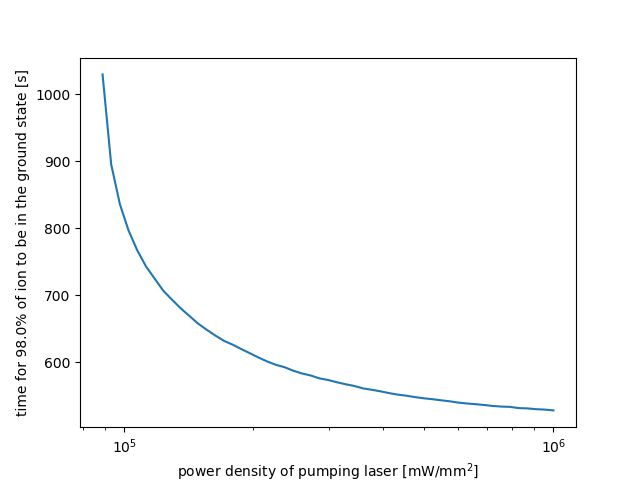
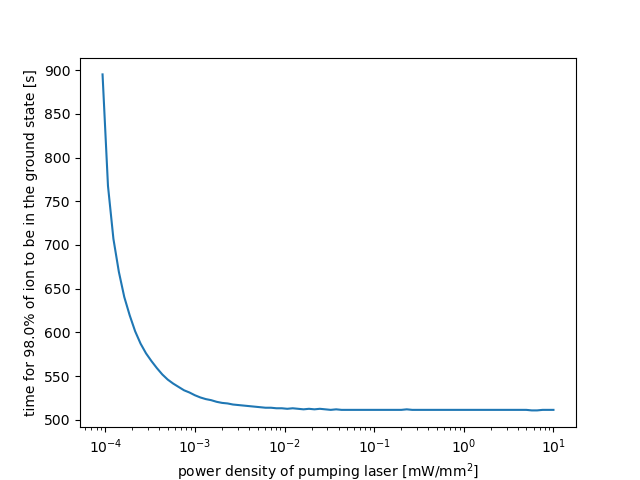
ground time

diff --git a/molecular_rotational_cooling.py b/molecular_rotational_cooling.py
@@ -207,7 +207,7 @@ class molecular_rotational_cooling:
     def run_laserPower_vs_groundTime(self,threshold=0.99):
         #laserPower = np.linspace(0,0.1,50)
         #laserPower = np.logspace(4,6,100)
-        laserPower = np.logspace(-1,4,100)
+        laserPower = np.logspace(-5,1,100)
         groundTime = []
         for Power in laserPower:
             self.run_laser_power(vJ_pump_i=[0,1], vJ_pump_f=[2,0], t_max=1500, pumping_laser_Power = Power)

diff --git a/README.md b/README.md
@@ -245,6 +245,21 @@ sim_CH2.save_csv("./export/CH_T1000_PumpON02to21.csv")
 
 ## example of plots dependent on laser power
 More example is [here](./laserpowerDependence.md).
+### laser power vs time for 98.0% of ion to be in the ground state
+#### Code
+```
+from molecular_data import CaH
+from molecular_rotational_cooling import molecular_rotational_cooling
+mol0 = CaH(T_init = 300)
+sim_CaH0 = molecular_rotational_cooling(mol0)
+sim_CaH0.draw_laserPower_vs_groundTime(0.98, "./export/CaH_T300_PumpON01_20_98groundtime.png")
+```
+
+#### Result
+![CaH_T300_PumpON01_20_98groundtime](./export/CaH_T300_PumpON01_20_98groundtime.png)
+
+---
+
 ### time vs population of (v,J)=(2,0) for each laser power
 CaH+, pumping ON (v=0,J=1 -> v=2,J=0), Initial vibrational temperature: 300 K
 wavelength of the pumping laser : 3.52 μm

diff --git a/laserpowerDependence.md b/laserpowerDependence.md
@@ -3,6 +3,21 @@ Example of simulation for molecular rotational cooling dependent on laser power
 
 ## CaH+, pumping ON (v=0,J=1 -> v=2,J=0), Initial vibrational temperature: 300 K
 wavelength of the pumping laser : 3.52 μm
+### laser power vs time for 98.0% of ion to be in the ground state
+#### Code
+```
+from molecular_data import CaH
+from molecular_rotational_cooling import molecular_rotational_cooling
+mol0 = CaH(T_init = 300)
+sim_CaH0 = molecular_rotational_cooling(mol0)
+sim_CaH0.draw_laserPower_vs_groundTime(0.98, "./export/CaH_T300_PumpON01_20_98groundtime.png")
+```
+
+#### Result
+![CaH_T300_PumpON01_20_98groundtime](./export/CaH_T300_PumpON01_20_98groundtime.png)
+
+---
+
 ### time vs population of (v,J)=(2,0) for each laser power
 #### Code
 ```
